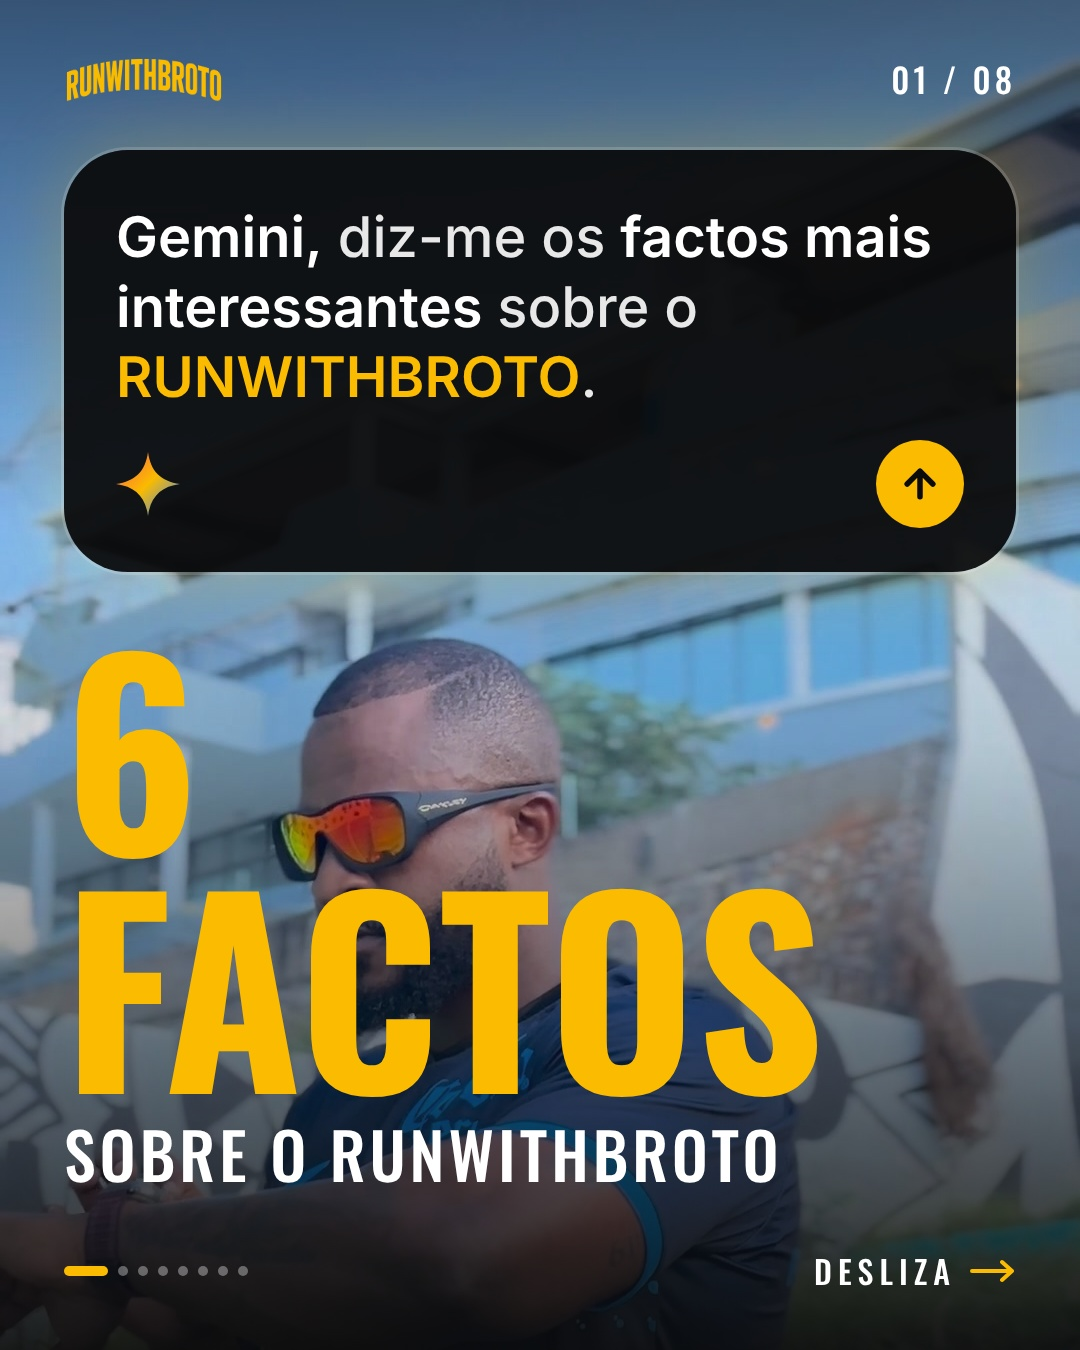
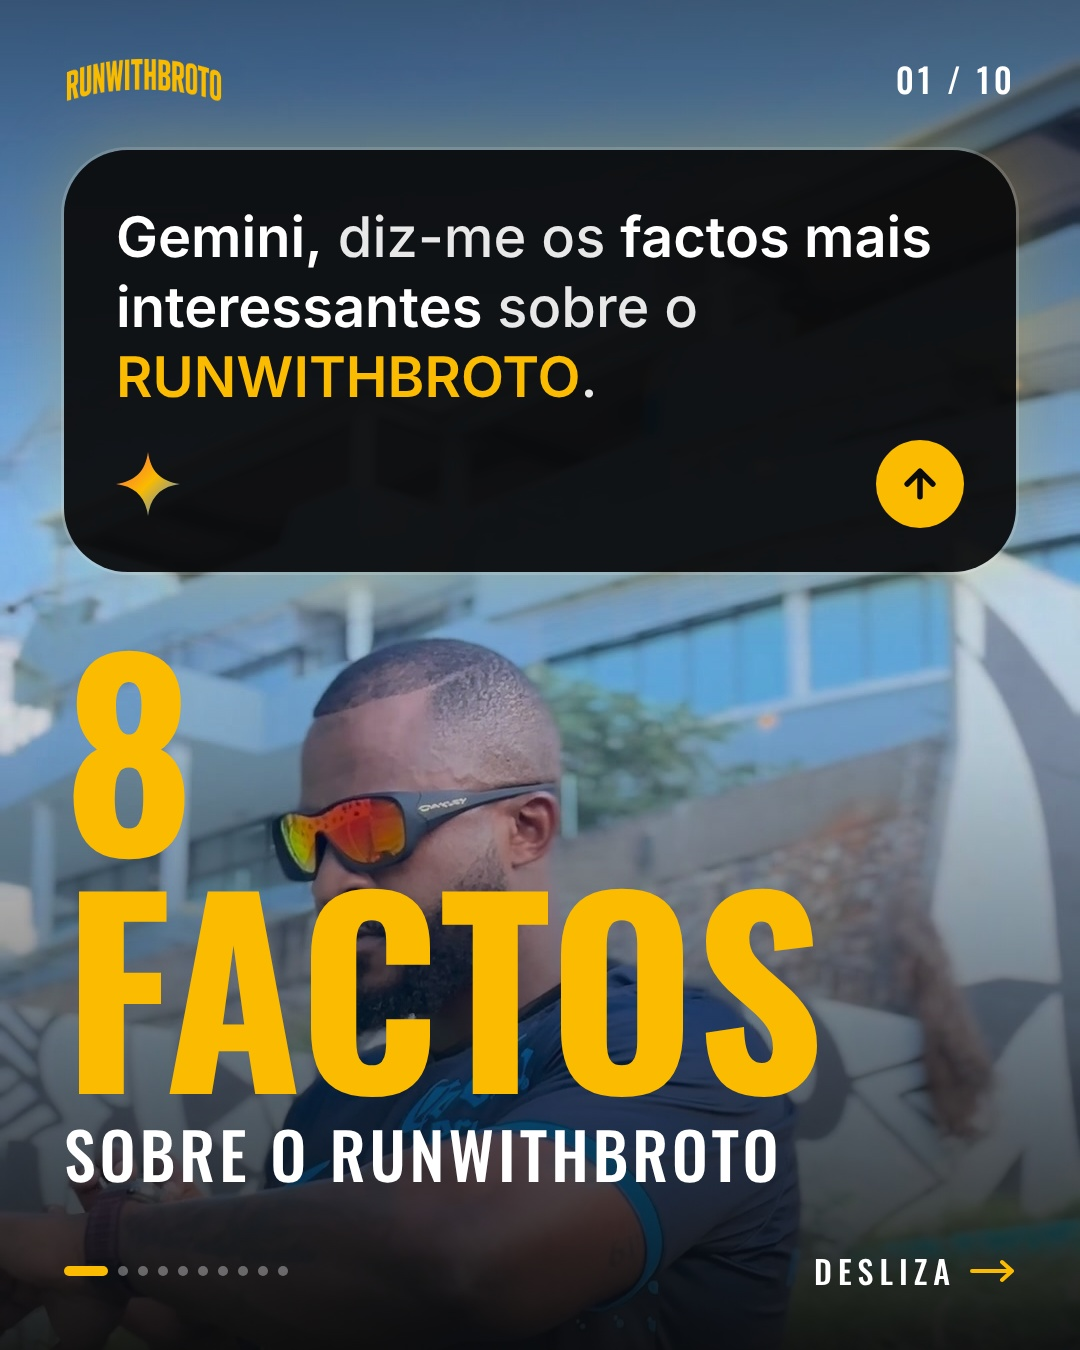
Carrossel: remove o facto do café e acrescenta Broto, Night Run do Caracol e corridas híbridas (10 slides)
Claude-Session: https://claude.ai/code/session_01DkaCWGXuFd6yQ1MSFtQr7D

Changed region(s): [[0.0611, 0.4978, 0.1833, 0.6222], [0.825, 0.0311, 0.9167, 0.0933]]

diff --git a/src/facts.ts b/src/facts.ts
@@ -18,12 +18,14 @@ export type Fact = {
 };
 
 export const FACTS: Fact[] = [
-  {kicker: "FACTO 01", chapter: "A ORIGEM", anim: "slideUp", title: "Nasceu em\nMaputo.\nChegou à Matola.", body: "A comunidade saiu de Maputo e levou a corrida a novas ruas.", photo: "photos/02.jpg", cut: "photos/02-cut.png", pos: "52% 50%", route: ["MAPUTO", "MATOLA"]},
-  {kicker: "FACTO 02", chapter: "O LEMA", anim: "words", deco: "pack", title: "Ninguém fica\npara trás.", body: "We run together. We grow together. A consistência vence a motivação. E a rua é para todos.", photo: "photos/03.jpg", cut: "photos/03-cut.png"},
-  {kicker: "FACTO 03", chapter: "A COMUNIDADE", anim: "wipeX", deco: "dots", title: "membros\nactivos.", body: "Eventos chegam a ter mais de 1 000 inscrições numa única semana.", photo: "photos/04.jpg", stat: {to: 2500, prefix: "+"}},
-  {kicker: "FACTO 04", chapter: "AS CAUSAS", anim: "slideX", accent: "#ff5fa2", title: "inscritos no\nOutubro Rosa.", body: "Uma corrida para conscientizar sobre a prevenção do câncer de mama.", photo: "photos/05.jpg", stat: {to: 1000, prefix: "+"}},
-  {kicker: "FACTO 05", chapter: "A LIBERDADE", anim: "zoom", accent: "#ff8a1f", deco: "sun", title: "Ao amanhecer.", body: "No Dia da Independência, centenas de pessoas correm juntas, celebrando a liberdade em movimento.", photo: "photos/06.jpg", cut: "photos/06-cut.png", stat: {text: "25 JUN"}},
-  {kicker: "FACTO 06", chapter: "O CONVÍVIO", anim: "drop", accent: "#e0a458", deco: "steam", title: "Depois do 5 km,\nvem o café.", body: "As Coffee Parties juntam corrida descontraída, pequeno-almoço e convívio.", photo: "photos/07.jpg", video: "videos/07.mp4", badge: {center: "5KM", ring: "COFFEE PARTY • COFFEE PARTY • "}},
+  {kicker: "FACTO 01", chapter: "A ORIGEM", anim: "slideUp", title: "Nasceu de uma\ntransformação\npessoal.", body: "Fundado por Broto (@obroto_), que usou a corrida para criar disciplina e mudar a própria vida. Depressa deixou de ser só dele: virou um fenómeno coletivo.", photo: "photos/04.jpg"},
+  {kicker: "FACTO 02", chapter: "A EXPANSÃO", anim: "slideUp", title: "Nasceu em\nMaputo.\nChegou à Matola.", body: "A comunidade saiu de Maputo e levou a corrida a novas ruas.", photo: "photos/02.jpg", cut: "photos/02-cut.png", pos: "52% 50%", route: ["MAPUTO", "MATOLA"]},
+  {kicker: "FACTO 03", chapter: "O LEMA", anim: "words", deco: "pack", title: "Ninguém fica\npara trás.", body: "We run together. We grow together. A consistência vence a motivação. E a rua é para todos.", photo: "photos/03.jpg", cut: "photos/03-cut.png"},
+  {kicker: "FACTO 04", chapter: "O RITUAL", anim: "slideX", accent: "#6aa7ff", title: "Quinta-feira\né dia de\nCaracol.", body: "Todas as quintas à noite, a Night Run parte do Caracol, em Maputo. É famosa entre a juventude pela energia e pelo convívio.", photo: "photos/01.jpg"},
+  {kicker: "FACTO 05", chapter: "O FORMATO", anim: "zoom", title: "Corridas\nhíbridas.", body: "Partidas em locais históricos diferentes (Estátua Eduardo Mondlane, Praça da OMM, Destacamento Feminino) e uma só chegada: a Fortaleza.", photo: "photos/hybrid.jpg"},
+  {kicker: "FACTO 06", chapter: "A COMUNIDADE", anim: "wipeX", deco: "dots", title: "membros\nactivos.", body: "Eventos chegam a ter mais de 1 000 inscrições numa única semana.", photo: "photos/nov.jpg", stat: {to: 2500, prefix: "+"}},
+  {kicker: "FACTO 07", chapter: "AS CAUSAS", anim: "slideX", accent: "#ff5fa2", title: "inscritos no\nOutubro Rosa.", body: "Uma corrida para conscientizar sobre a prevenção do câncer de mama.", photo: "photos/05.jpg", stat: {to: 1000, prefix: "+"}},
+  {kicker: "FACTO 08", chapter: "A LIBERDADE", anim: "zoom", accent: "#ff8a1f", deco: "sun", title: "Ao amanhecer.", body: "No Dia da Independência, centenas de pessoas correm juntas, celebrando a liberdade em movimento.", photo: "photos/06.jpg", cut: "photos/06-cut.png", stat: {text: "25 JUN"}},
 ];
 
 export const FPS = 30;

diff --git a/src/Carousel.tsx b/src/Carousel.tsx
@@ -1,6 +1,7 @@
 import React from "react";
 import {AbsoluteFill, Img, staticFile} from "remotion";
 import {BRAND, INK, INTER, OSWALD} from "./theme";
+import {FACTS} from "./facts";
 import {FactSlide, H, HANDLE, SLIDES, W} from "./carousel";
 
 const PAD = 64;
@@ -64,19 +65,30 @@ const Cover: React.FC<{prompt: string; photo: string; pos: string}> = ({prompt, 
         </div>
       </div>
       <div style={{position: "absolute", left: PAD, right: PAD, bottom: 150}}>
-        <div style={{fontFamily: OSWALD, fontWeight: 700, fontSize: 250, lineHeight: 0.95, color: BRAND, textTransform: "uppercase"}}>6 factos</div>
+        <div style={{fontFamily: OSWALD, fontWeight: 700, fontSize: 250, lineHeight: 0.95, color: BRAND, textTransform: "uppercase"}}>{FACTS.length} factos</div>
         <div style={{fontFamily: OSWALD, fontWeight: 500, fontSize: 64, letterSpacing: 4, color: "#fff", textTransform: "uppercase", marginTop: 6}}>sobre o RUNWITHBROTO</div>
       </div>
     </AbsoluteFill>
   );
 };
 
+/** Lua e estrelas para o capítulo da Night Run. */
+const Moon: React.FC = () => (
+  <svg width="1080" height="1350" viewBox="0 0 1080 1350" style={{position: "absolute", inset: 0}}>
+    {[[180, 220, 4], [320, 160, 3], [520, 250, 3], [640, 190, 4], [760, 330, 3], [900, 470, 3], [120, 400, 3], [430, 120, 3]].map(([x, y, r], i) => <circle key={i} cx={x} cy={y} r={r} fill="#fff" opacity={0.8} />)}
+    <defs><mask id="moonMask"><rect width="1080" height="1350" fill="#fff" /><circle cx="915" cy="232" r="80" fill="#000" /></mask></defs>
+    <circle cx="880" cy="250" r="86" fill="#eef4ff" mask="url(#moonMask)" />
+  </svg>
+);
+
 const Fact: React.FC<{s: FactSlide}> = ({s}) => {
   const lines = s.title.split("\n");
   const stat = s.stat;
   return (
     <AbsoluteFill style={{background: INK}}>
-      <Img src={staticFile(s.photo)} style={{width: "100%", height: "100%", objectFit: "cover", objectPosition: s.pos, filter: s.cut ? "blur(4px) brightness(0.8)" : undefined}} />
+      <Img src={staticFile(s.photo)} style={{width: "100%", height: "100%", objectFit: "cover", objectPosition: s.pos, filter: s.cut ? "blur(4px) brightness(0.8)" : s.night ? "brightness(0.55) saturate(0.7) contrast(1.1)" : undefined}} />
+      {s.night && <AbsoluteFill style={{background: "linear-gradient(180deg, rgba(8,24,70,0.78) 0%, rgba(14,40,110,0.45) 100%)", mixBlendMode: "multiply"}} />}
+      {s.night && <Moon />}
       {s.cut && (
         <div style={{position: "absolute", left: 0, right: 0, top: 120, textAlign: "center", fontFamily: OSWALD, fontWeight: 700, fontSize: 760, lineHeight: 1, color: s.accent, opacity: 0.95}}>
           {s.kicker.slice(-2)}

diff --git a/src/carousel.ts b/src/carousel.ts
@@ -7,21 +7,21 @@ export const HANDLE = "@runwithbroto_";
 
 export type FactSlide = {
   kind: "fact"; kicker: string; chapter: string; title: string; body: string; photo: string; cut?: string; pos: string;
-  accent: string; stat?: {text: string; stamp?: boolean};
+  accent: string; night?: boolean; stat?: {text: string; stamp?: boolean};
 };
 export type Slide = {kind: "cover"; prompt: string; photo: string; pos: string} | FactSlide | {kind: "cta"};
 
 const BRAND = "#fabb00";
 // foto / recorte / enquadramento de cada facto (mesma ordem de FACTS em facts.ts)
 const LOOK = [
-  {pos: "40% 50%"}, {pos: "50% 35%"}, {pos: "50% 50%"}, {pos: "50% 40%"}, {pos: "50% 0%"}, {pos: "50% 30%"},
+  {pos: "50% 50%"}, {pos: "40% 50%"}, {pos: "50% 35%"}, {pos: "50% 40%", night: true}, {pos: "50% 35%"}, {pos: "50% 30%"}, {pos: "50% 40%"}, {pos: "50% 0%"},
 ];
-const STAT = [undefined, undefined, {text: "+2 500"}, {text: "+1 000"}, {text: "25 JUN", stamp: true}, undefined];
+const STAT = [undefined, undefined, undefined, undefined, undefined, {text: "+2 500"}, {text: "+1 000"}, {text: "25 JUN", stamp: true}];
 
 export const SLIDES: Slide[] = [
   {kind: "cover", prompt: PROMPT, photo: "photos/cover.jpg", pos: "50% 30%"},
   ...FACTS.map((f, i): FactSlide => ({
-    kind: "fact", kicker: f.kicker, chapter: f.chapter, title: f.title, body: f.body, photo: f.photo, cut: f.cut, pos: LOOK[i].pos,
+    kind: "fact", kicker: f.kicker, chapter: f.chapter, title: f.title, body: f.body, photo: f.photo, cut: f.cut, pos: LOOK[i].pos, night: (LOOK[i] as {night?: boolean}).night,
     accent: f.accent ?? BRAND, stat: STAT[i],
   })),
   {kind: "cta"},

diff --git a/README.md b/README.md
@@ -1,12 +1,12 @@
 # RUNWITHBROTO · carrossel de Instagram (Remotion)
 
-8 slides em **1080×1350 (4:5)**, prontos a publicar em `carousel/slide-1.jpg … slide-8.jpg`:
-capa (pergunta à IA) → 6 factos → convite final.
+10 slides em **1080×1350 (4:5)**, prontos a publicar em `carousel/slide-1.jpg … slide-10.jpg`:
+capa (pergunta à IA) → 8 factos → convite final.
 
 ```bash
 npm install
-npm run dev                                   # Remotion Studio: composição "Carousel" (muda o "index" 0–7)
-# renderizar um slide (index 0 = capa … 7 = fecho):
+npm run dev                                   # Remotion Studio: composição "Carousel" (muda o "index" 0–9)
+# renderizar um slide (index 0 = capa … 9 = fecho):
 npx remotion still Carousel carousel/slide-1.jpg --props='{"index":0}' --image-format=jpeg --jpeg-quality=95
 ```
 
